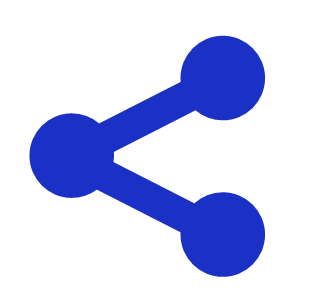
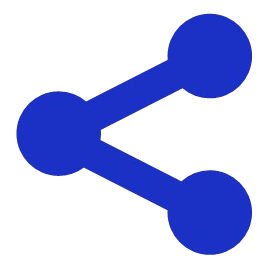
LogoChange

diff --git a/src/components/layout/Navbar.jsx b/src/components/layout/Navbar.jsx
@@ -76,7 +76,7 @@ export default function Navbar() {
                   textDecoration: "none",
                 }}
               >
-                Logo
+                <Image src={logo} alt="Logo" height="40px" />
               </Link>
             </Box>
 
